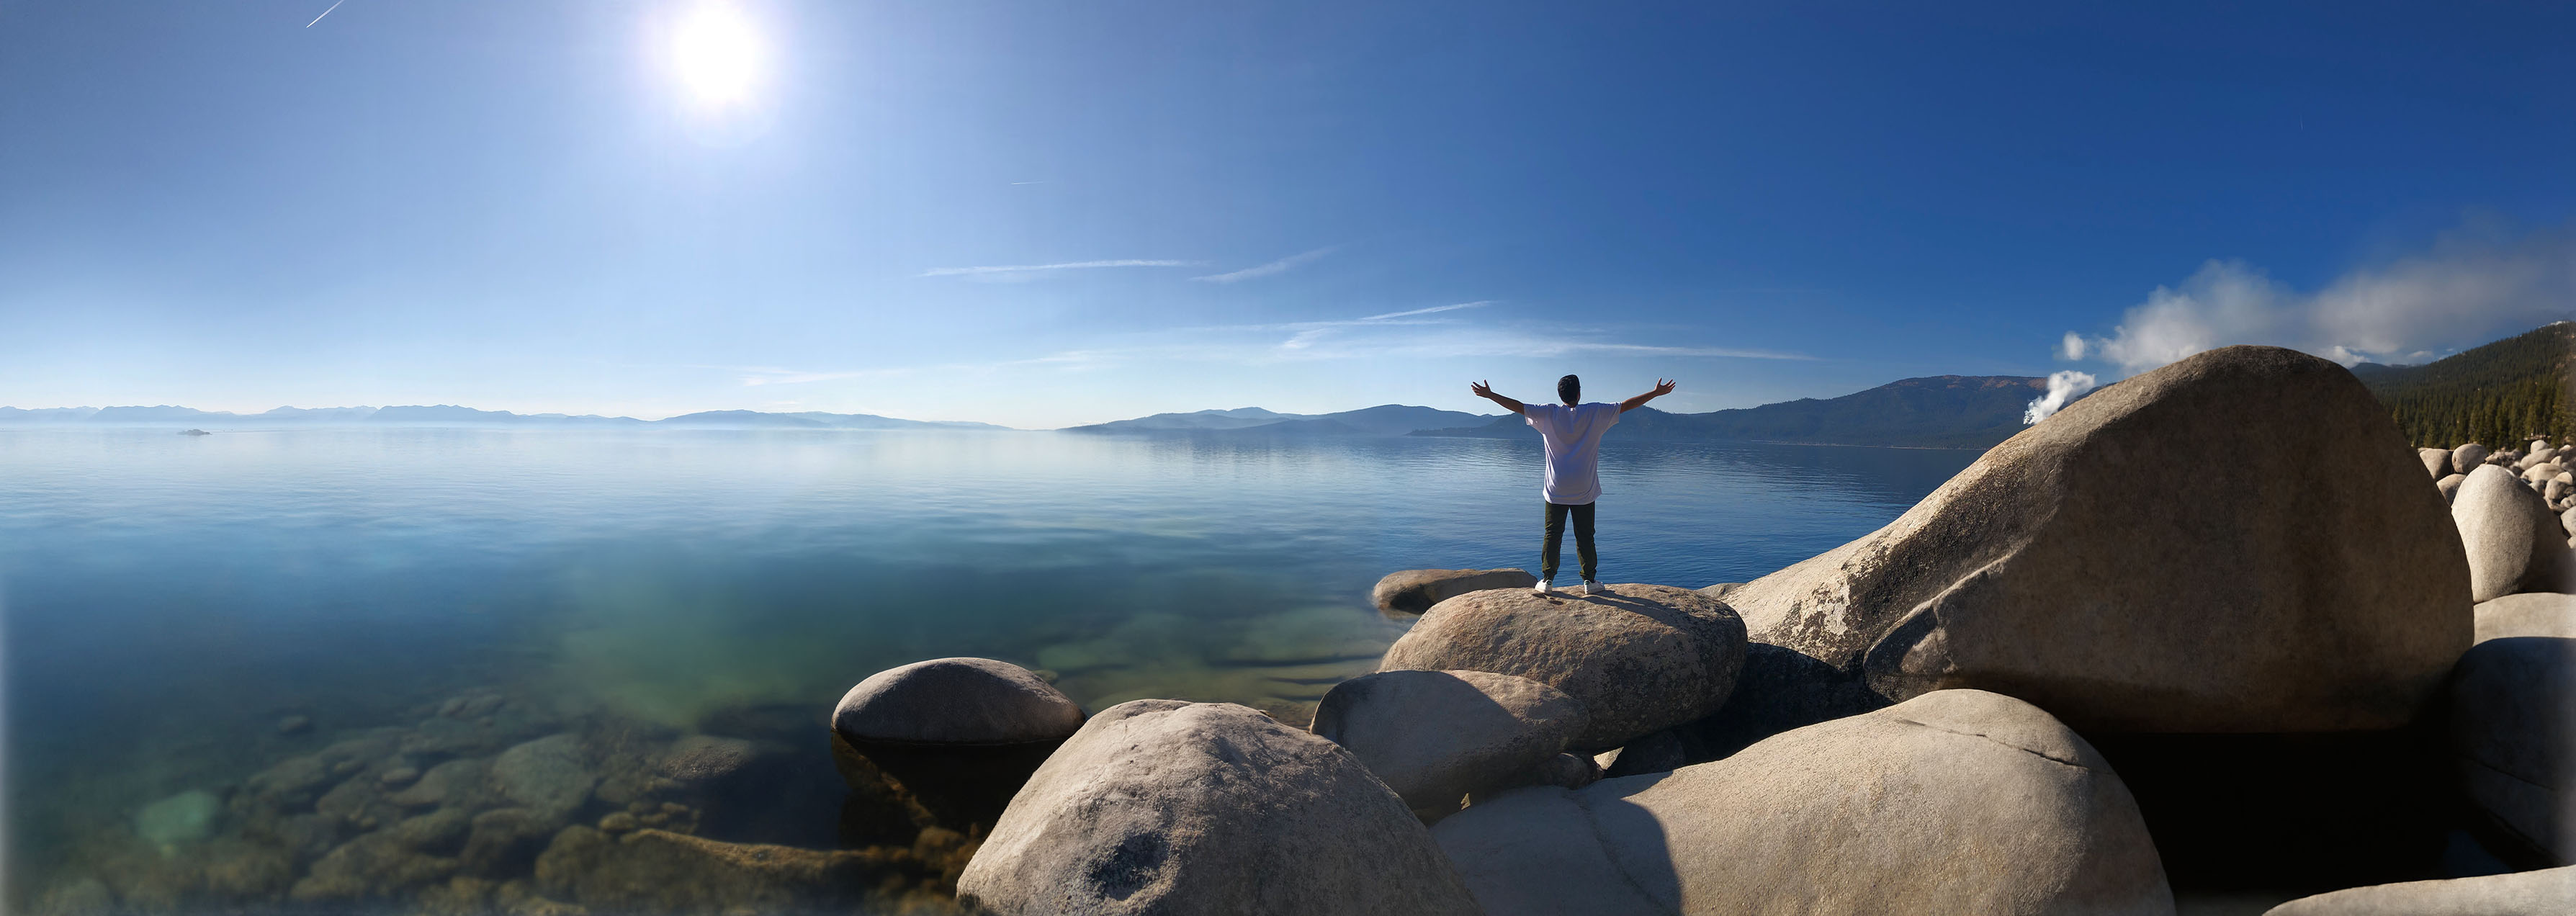
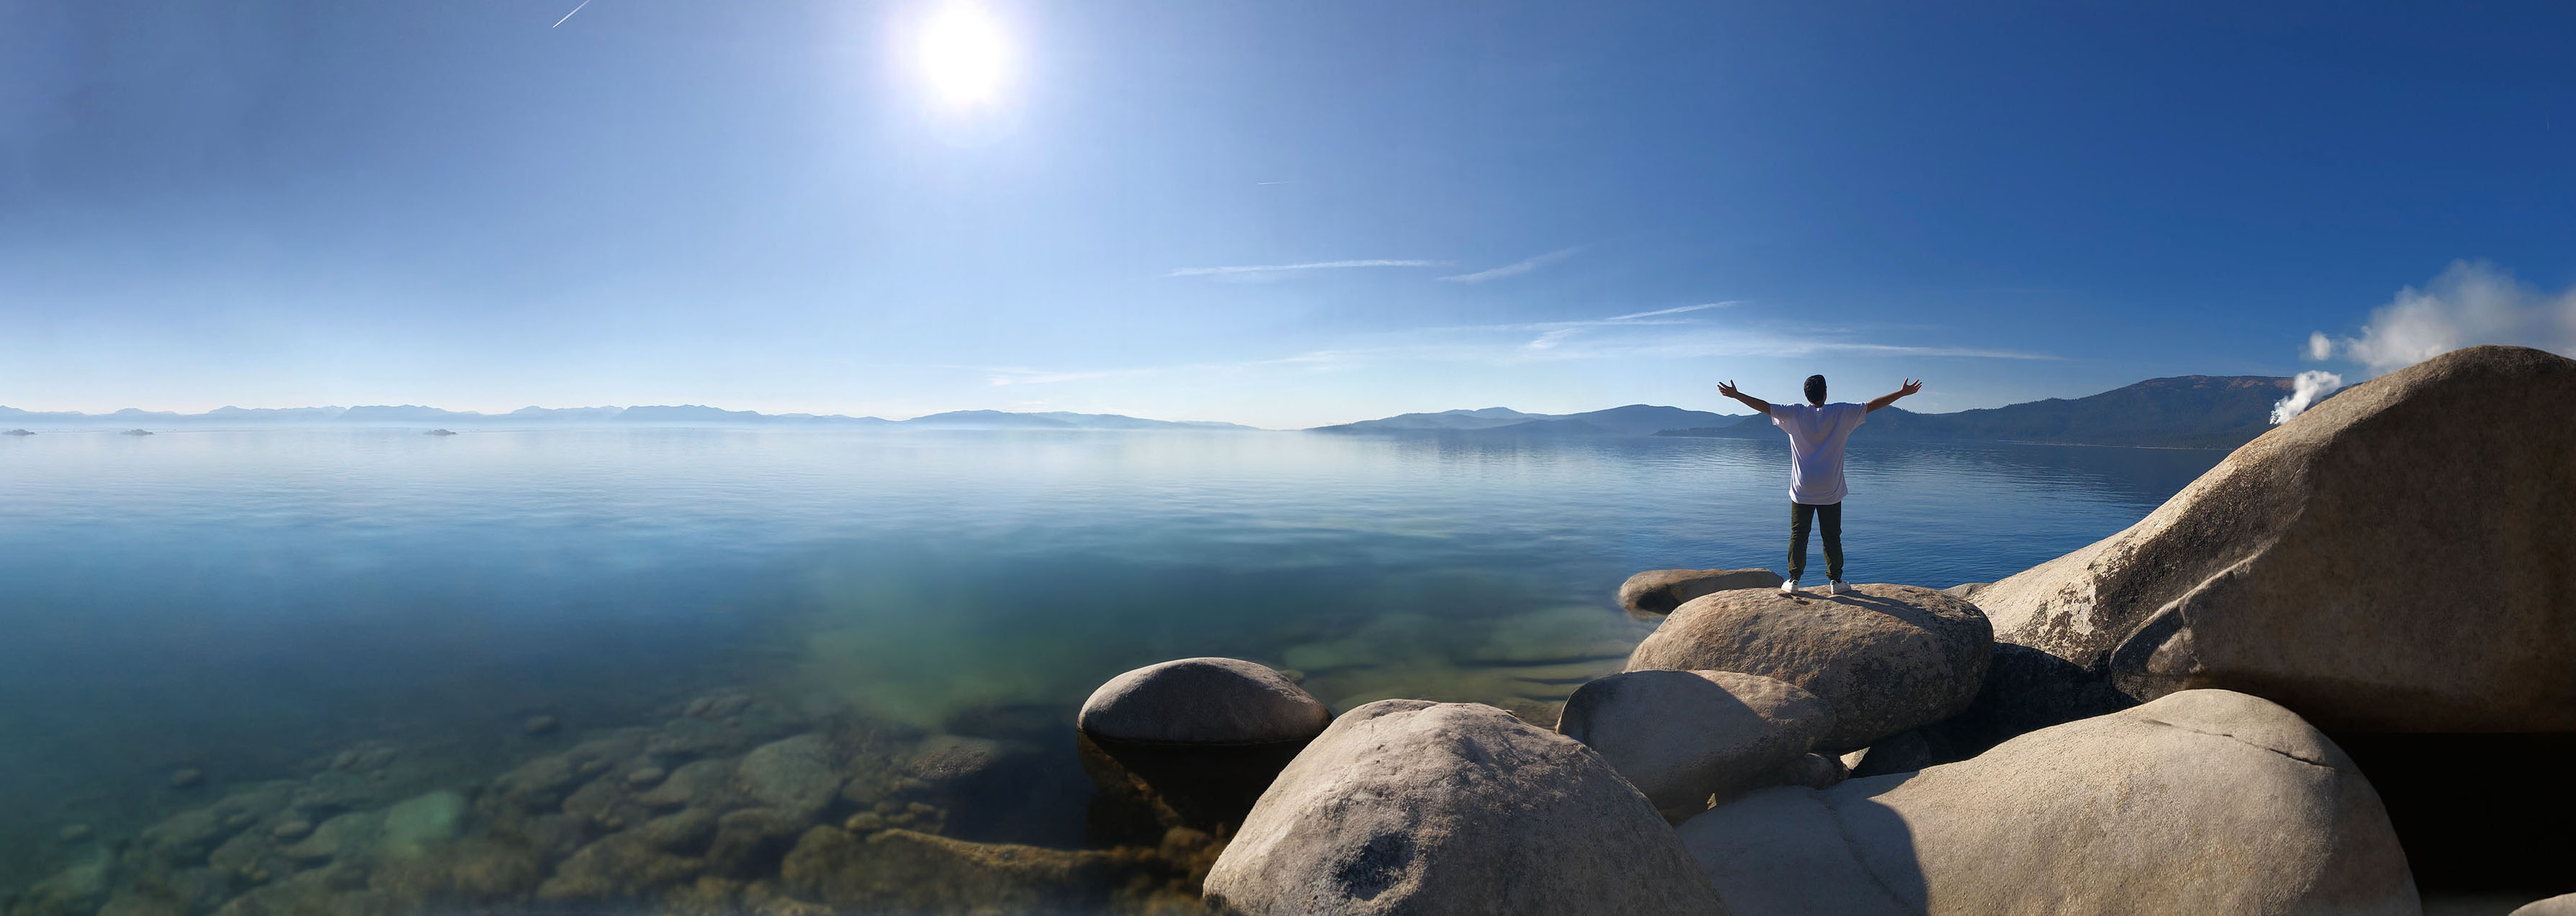
added dark header, updated text

diff --git a/main.js b/main.js
@@ -189,7 +189,7 @@ class RandomTheme {
     this.body = document.body;
     this.randomThemeButton = document.getElementById("randomThemeButton");
     this.themeClasses = ["theme-default", "theme-sage", "theme-terra"];
-    this.currentTheme = this.themeClasses[0]; // Store current theme
+    this.currentTheme = 0; // Store current theme Idx
     this.init();
   }
 
@@ -200,19 +200,18 @@ class RandomTheme {
   }
 
   setRandomTheme() {
+    const currTheme = this.themeClasses[this.currentTheme];
+
     // Remove current theme first
-    this.body.classList.remove(this.currentTheme);
+    this.body.classList.remove(currTheme);
 
-    // Create filtered list without current theme
-    const availableThemes = this.themeClasses.filter(
-      (theme) => theme !== this.currentTheme
-    );
+    this.currentTheme += 1; // Update current theme
+    if (this.currentTheme === this.themeClasses.length) {
+      this.currentTheme = 0;
+    }
 
-    const randomIndex = Math.floor(Math.random() * availableThemes.length);
-    const newTheme = availableThemes[randomIndex]; // Store the selected theme
-
-    this.body.classList.add(newTheme);
-    this.currentTheme = newTheme; // Update current theme
+    const nextTheme = this.themeClasses[this.currentTheme];
+    this.body.classList.add(nextTheme);
   }
 }
 

diff --git a/styles/components/footer.css b/styles/components/footer.css
@@ -8,10 +8,11 @@ footer {
   padding: 0; /* Add some padding */
   display: flex; /* Add flex to center social-nav */
   justify-content: center; /* Center horizontally */
-  transition: transform var(--transition-standard),
-    background-color var(--transition-standard),
-    color var(--transition-standard);
-}
+  transition: 
+    transform var(--transition-standard),
+    background-color var(--transition-standard);
+  
+  }
 
 footer.hidden {
   transform: translateY(100%);
@@ -56,29 +57,19 @@ footer.hidden {
   content: url("../../assets/github-mark.png");
 }
 
+/* Base styles with transition */
 .social-label {
-  text-align: center; /* Ensures text itself is centered */
-  font-family: "Source Sans 3", system-ui, sans-serif;
+  color: var(--dark-primary);
+  text-align: center;
+  font-family: var(--font-primary);
   font-weight: bold;
   font-size: clamp(0.6rem, 2vw, 0.875rem);
 }
-
 .social-img,
 .social-label {
   opacity: var(--opacity-light);
-  transition: opacity 0.2s ease;
+  transition: opacity var(--transition-quick);
   cursor: inherit;
-}
-
-.social-item:hover .social-img,
-.social-item:hover .social-label {
-  opacity: 1;
-}
-
-.social-img,
-.social-label {
-  opacity: var(--opacity-light);
-  transition: opacity 0.2s ease;
 }
 
 /* Single hover rule for the entire item */

diff --git a/index.html b/index.html
@@ -7,20 +7,21 @@
       rel="stylesheet"
     />
     <link rel="stylesheet" href="styles/index.css" />
-
-    <link rel="preload" href="assets/header_smol.jpg" as="image" />
     <meta charset="utf-8" />
     <meta name="viewport" content="width=device-width" />
     <title>Rohit Mittal's personal website.</title>
   </head>
   <body class="theme-default">
     <img
-      class="headerIMG"
-      src="assets/header_smol.jpg"
-      alt="California"
-      fetchpriority="high"
-      loading="eager"
-    />
+    class="headerIMG headerIMG-light"
+    src="assets/header_smol.jpg"
+    alt="California"
+  />
+  <img
+    class="headerIMG headerIMG-dark"
+    src="assets/header_smol_night.jpg"
+    alt="California Dark"
+  />
     <div class="page-layout">
       <div class="header-container">
         <h1 id="header-text"></h1>
@@ -31,7 +32,7 @@
           <div class="dummy-content">
             <h2>Under Development.</h2>
             <button id="randomThemeButton" class="random-theme-button">
-              Random Theme
+              Next Theme
             </button>
 
             <h2>About Me</h2>

diff --git a/styles/components/header.css b/styles/components/header.css
@@ -7,6 +7,7 @@
   overflow: hidden; /* Clip content that overflows vertically */
 }
 
+/* Common styles for both images */
 .headerIMG {
   position: absolute;
   top: 0;
@@ -14,8 +15,28 @@
   width: 100%; /* Full viewport width */
   height: clamp(50px, 20vw - 100px, 200px);
   object-fit: cover;
-  object-position: left;
+  object-position: center;
   z-index: 1;
+  transition: opacity var(--transition-standard); /* Add opacity transition */
+}
+
+/* Light mode image visible by default */
+.headerIMG-light {
+  opacity: 1;
+}
+
+/* Dark mode image hidden by default */
+.headerIMG-dark {
+  opacity: 0.3;
+}
+
+/* When dark mode is active */
+body.dark-mode .headerIMG-light {
+  opacity: 0.3; /* Fade out light mode image */
+}
+
+body.dark-mode .headerIMG-dark {
+  opacity: 1; /* Fade in dark mode image */
 }
 
 h1 {

diff --git a/styles/layout/main.css b/styles/layout/main.css
@@ -13,6 +13,7 @@
   grid-template-columns: 1fr auto; /* Main content | Navigation */
   transition: transform var(--transition-standard); /* Animate the transformation */
   gap: 4rem; /* Space between content and navigation */
+  color: var(--dark-primary); 
 }
 
 .content-wrapper.rtl {
@@ -37,10 +38,16 @@ body {
   padding: 0; /* Remove padding since page-wrapper handles it */
   overflow-x: hidden;
   position: relative; /* Create positioning context */
-  background-color: vaR(--light-primary);
-  transition: background-color var(--transition-standard),
-    color var(--transition-standard);
+  background-color: var(--light-primary);
+  transition: background-color var(--transition-standard);
 }
+
+body {
+}
+
+h1, h2, h3, p, span, a {
+}
+
 
 /* Main content grows to fill space between header and footer */
 h2 {

diff --git a/styles/components/slider.css b/styles/components/slider.css
@@ -13,7 +13,6 @@
 .switch-container {
   font-family: var(--font-primary);
   font-weight: bold;
-  opacity: var(--opacity-light) + 1;
   position: relative;
   display: inline-block;
   width: var(--switch-width);
@@ -161,13 +160,13 @@
   background: var(--dark-primary);
   color: var(--light-primary);
   cursor: pointer;
-  transition: opacity var(--transition-quick);
-  opacity: var(--opacity-light);
+  /* transition: opacity var(--transition-quick);
+  opacity: var(--opacity-light); */
 }
 
-.random-theme-button {
+/* .random-theme-button {
   opacity: 1;
-}
+} */
 
 .dark-mode .random-theme-button {
   background: var(--light-primary);

diff --git a/styles/utils/dark-mode.css b/styles/utils/dark-mode.css
@@ -1,16 +1,19 @@
 /* Dark mode styles */
 .dark-mode {
-  transition: background-color var(--transition-standard),
-    color var(--transition-standard);
+  transition: background-color var(--transition-standard);
   background-color: var(--dark-primary);
+}
+
+.dark-mode h1 {
+  color: var(--light-secondary);
+}
+
+.dark-mode .content-wrapper {
+  color: var(--light-secondary);
 }
 
 .dark-mode footer {
   background-color: var(--dark-secondary);
-}
-
-.dark-mode .content-wrapper {
-  color: var(--light-primary);
 }
 
 .dark-mode .socials {

diff --git a/styles/components/navbar.css b/styles/components/navbar.css
@@ -3,9 +3,6 @@
   align-self: start;
   top: clamp(50px, 20vw - 100px, 200px);
   width: fit-content;
-  margin-left: auto;
-  background: transparent;
-  /* padding-top: 2rem; */
 }
 
 .navbar {
@@ -41,6 +38,7 @@
   transition: opacity 0.2s ease;
   transition: transform 0.2s ease; /* Smoothly animate translateX over 0.5 seconds */
   text-align: left;
+  
 }
 
 .nav-item:hover span {

diff --git a/styles/base/variables.css b/styles/base/variables.css
@@ -1,6 +1,6 @@
 :root {
   /* Layout */
-  --max-width: 1400px;
+  --max-width: 1200px;
   --page-padding: 3rem;
 
   /* Typography */
@@ -11,8 +11,7 @@
   --line-height-heading: 1.2;
 
   /* VISUAL */
-
-  --transition-standard: 0.7s ease;
+  --transition-standard: 0.7s ease-out;
   --transition-quick: 0.2s ease;
   --opacity-light: 0.8;
 }
